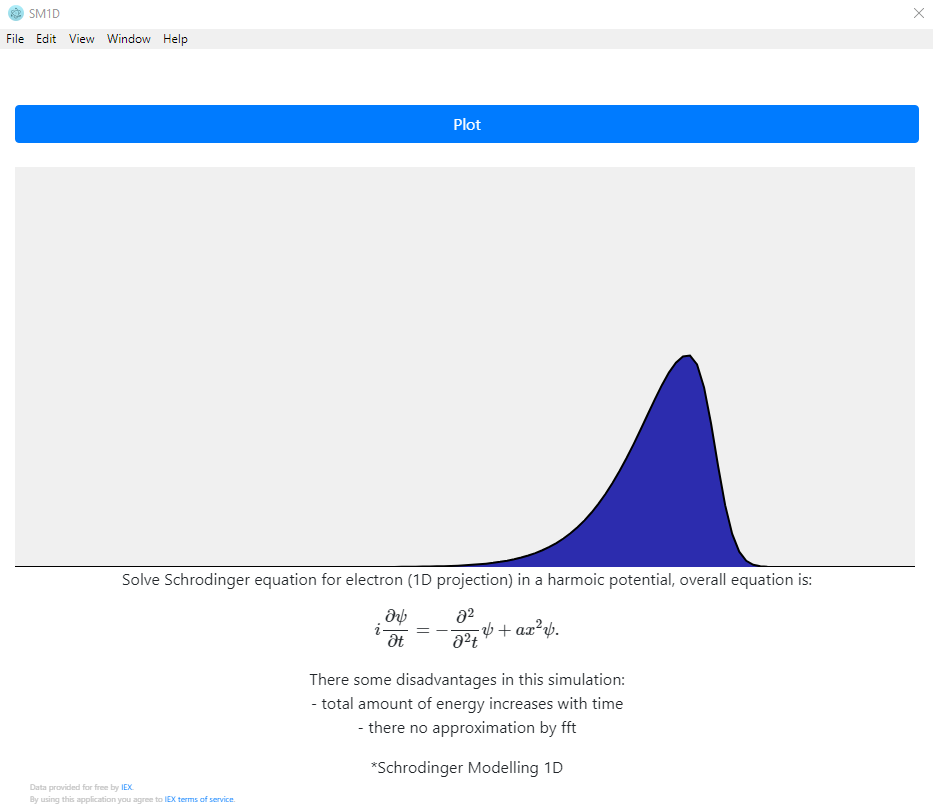
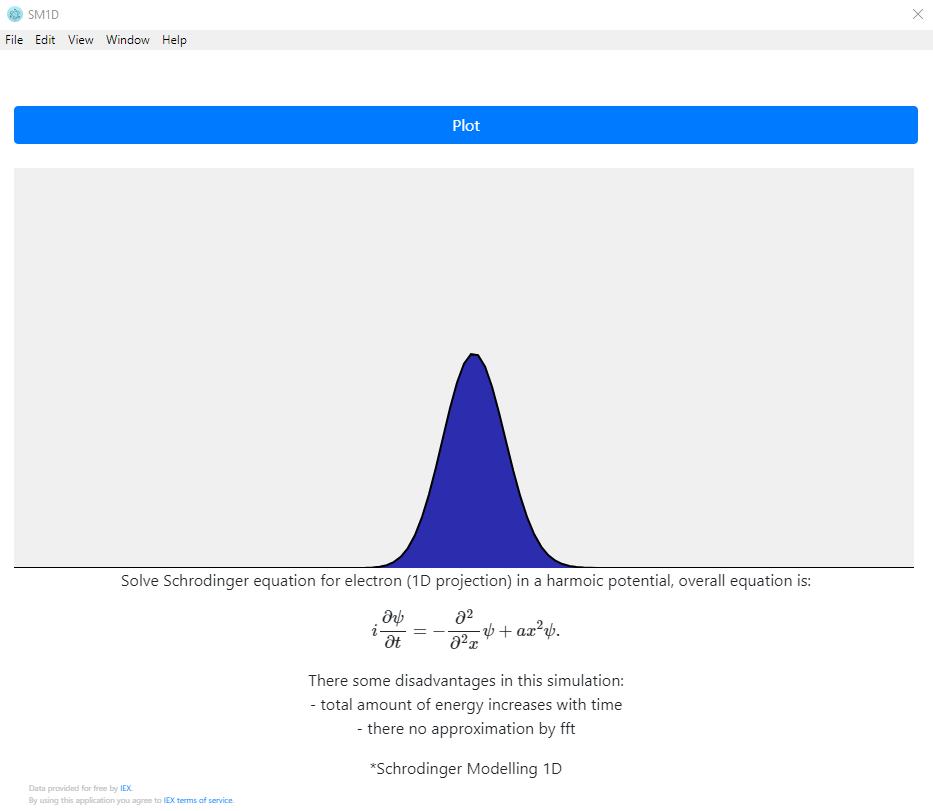
fix description

diff --git a/SM1D/src/components/description.vue b/SM1D/src/components/description.vue
@@ -21,7 +21,7 @@ export default {
   name: 'DescriptionView',
   data () {
     return {
-      formula_first: '$${i {\\frac{\\partial\\psi}{\\partial t}} = -{\\frac{\\partial^2}{\\partial^2 t}}\\psi + ax^2\\psi }.$$'
+      formula_first: '$${i {\\frac{\\partial\\psi}{\\partial t}} = -{\\frac{\\partial^2}{\\partial^2 x}}\\psi + ax^2\\psi }.$$'
     }
   }
 }

diff --git a/SM1D/README.md b/SM1D/README.md
@@ -1,6 +1,8 @@
 # Schrodinger Modelling 1D
 Here is a example of Schrodinger equation processing for electron in harmonic potential.
 
+Make sure that you have created build folder in their root of project.
+
 run:
 
 npm run-script buildAndRun
